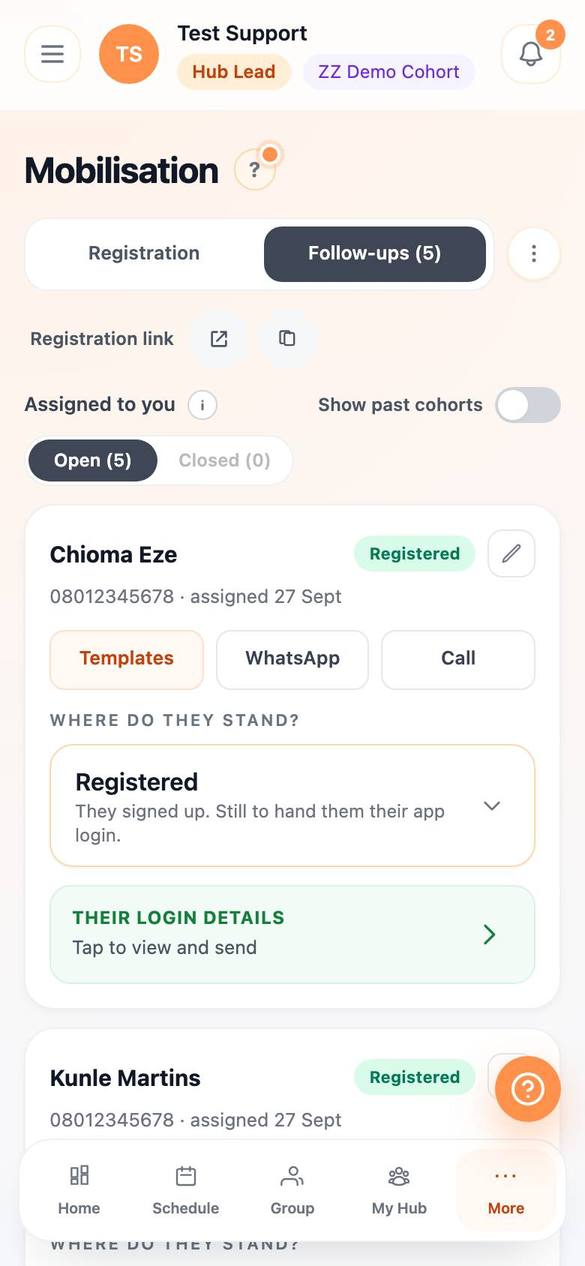
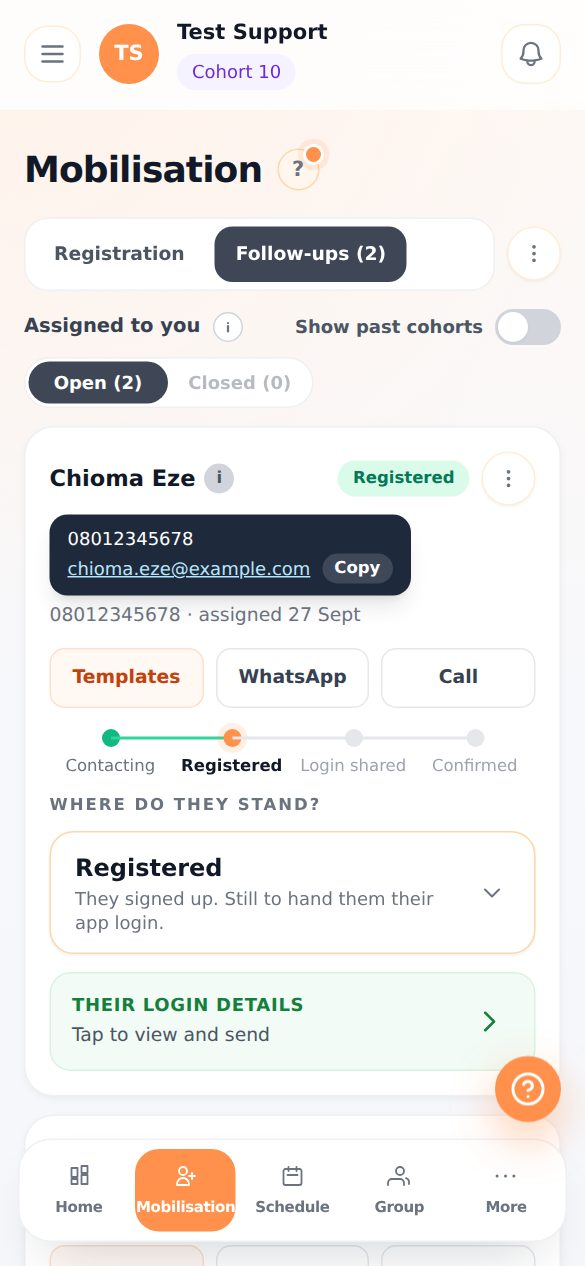
App guide: update for follow-up email, ⋮ menu, prior cohort, test contacts, search
Supports: the i pop-up and ⋮ menu on follow-up cards, how to reach someone
by email when the number doesn't work, templates and login details by
email, Edit contact moved into ⋮, and the sign-up search. Admins: contact
search, From prior cohort -> Attended, test contacts, and Mark as test on
Users; alerts, Assign now and the capacity cards now explain what they
count. The Follow-ups screenshot was retaken and a ⋮ menu one added.

Claude-Session: https://claude.ai/code/session_01FB56aDBfeXLVZc2gcA5A6g

diff --git a/frontend/public/guides/app-guide/content.js b/frontend/public/guides/app-guide/content.js
@@ -1048,7 +1048,31 @@ window.GUIDE_CONTENT = {
         "Open Follow-ups (it opens on the **Overview** tab, or switch to **Contacts**).",
         "The cards at the top show, per gender, how many are waiting versus how many spare places supports have, and which supports are at their limit."
        ],
-       "result": "Tapping a number filters the contact list below to match."
+       "result": "Tapping a number filters the contact list below to match.",
+       "tips": [
+        "The cards follow the cohort picked at the top. Test contacts are never counted."
+       ]
+      },
+      {
+       "id": "follow-ups-search",
+       "q": "How do I find a contact by name, number or email?",
+       "keywords": [
+        "search",
+        "find contact",
+        "name",
+        "number",
+        "email",
+        "all supports"
+       ],
+       "steps": [
+        "On the **Contacts** tab, type in the search box under the filters.",
+        "Matches come from every cohort, not just the one you've picked, so you don't need to change the cohort filter."
+       ],
+       "result": "The line under the box says how many match. Clear the box to go back to the full list.",
+       "tips": [
+        "Numbers work with 3 or more digits, typed as 0803… or +234 803….",
+        "Use **All Supports** to see one support's contacts, or **Unassigned** for the ones nobody has yet."
+       ]
       },
       {
        "id": "follow-ups-add-contact",
@@ -1097,7 +1121,7 @@ window.GUIDE_CONTENT = {
         "Tap the gear icon.",
         "Switch on **Alert admins when someone's stuck**."
        ],
-       "result": "While anyone is waiting unassigned, admins get one reminder every 2 hours (not one per person)."
+       "result": "While anyone in the current cohort is waiting to be assigned, admins get one reminder every 2 hours (not one per person). Test contacts, closed ones and wrong numbers are never counted."
       },
       {
        "id": "follow-ups-assign-now",
@@ -1112,7 +1136,10 @@ window.GUIDE_CONTENT = {
         "Confirm **Assign now**."
        ],
        "result": "Each waiting person goes to a same-gender support with room, and that support gets the usual new-follow-up alert. Anyone with no matching same-gender support, or no gender on file, stays waiting and is called out separately.",
-       "shot": "admin-follow-ups-assign-now-confirm.jpg"
+       "shot": "admin-follow-ups-assign-now-confirm.jpg",
+       "tips": [
+        "The number in the confirmation covers every cohort, so it can be higher than the cards, which follow the cohort you've picked. Test contacts are never counted or assigned."
+       ]
       },
       {
        "id": "follow-ups-gender-tags",
@@ -1144,7 +1171,49 @@ window.GUIDE_CONTENT = {
         "Choose from three groups: **Still open** (To contact, Waiting, Needs reminder, Replied, Call back later, Registered, Login shared, Issue with login), **Moved to next cohort**, or **Closed** (Participant confirmed access, Wrong number, Not interested, No response)."
        ],
        "result": "Only **Participant confirmed access** completes a follow-up — it's set by itself when the person signs in and chooses their password. **Login shared** keeps them open until then, and **Issue with login** alerts the admin and IT team.",
-       "shot": "admin-follow-ups-contacts.jpg"
+       "shot": "admin-follow-ups-contacts.jpg",
+       "tips": [
+        "**Attended** isn't in this list. It's set from the **From prior cohort** tag (see \"Someone from a prior cohort already attended\")."
+       ]
+      },
+      {
+       "id": "follow-ups-prior-cohort-attended",
+       "q": "Someone from a prior cohort already attended. How do I record that?",
+       "keywords": [
+        "from prior cohort",
+        "attended",
+        "prior cohort",
+        "previous cohort",
+        "already attended"
+       ],
+       "steps": [
+        "On the **Contacts** tab, find them. They have a grey **From prior cohort** tag.",
+        "Tap the tag and pick the cohort they attended."
+       ],
+       "result": "They're marked **Attended** and filed under that cohort, so they leave the current list and are never auto-assigned. You'll find them when you pick that cohort at the top.",
+       "tips": [
+        "Picked the wrong cohort? Tap **Attended [cohort]** and choose another, or **Undo**.",
+        "Only admins can do this. Supports just see the tag."
+       ]
+      },
+      {
+       "id": "follow-ups-test-contacts",
+       "q": "How do I mark a contact as a test, so it isn't counted?",
+       "keywords": [
+        "test contact",
+        "mark as test",
+        "demo",
+        "ignore",
+        "not counted"
+       ],
+       "steps": [
+        "On the **Contacts** tab, tap **⋮** on the contact.",
+        "Tap **Mark as test**."
+       ],
+       "result": "They get a **Test · ignored** tag. They stay in the list, but they're never auto-assigned and aren't counted in the cards, Overview, alerts or exports. Supports never see them.",
+       "tips": [
+        "To undo, tap **⋮** → **Unmark as test**."
+       ]
       },
       {
        "id": "follow-ups-import-export",
@@ -1173,7 +1242,10 @@ window.GUIDE_CONTENT = {
         "Send via WhatsApp."
        ],
        "result": "The message opens in WhatsApp with the template text and the current registration link filled in.",
-       "shot": "admin-follow-ups-message-bank.jpg"
+       "shot": "admin-follow-ups-message-bank.jpg",
+       "tips": [
+        "If the contact has an email, **Send email** in their **⋮** menu (or tapping their email under the **i**) sends the same template by email."
+       ]
       },
       {
        "id": "follow-ups-issues",
@@ -1314,19 +1386,24 @@ window.GUIDE_CONTENT = {
       },
       {
        "id": "users-row-menu",
-       "q": "How do I reset someone's password, change their role, or remove them?",
+       "q": "How do I reset someone's password, change their role, mark them as test, or remove them?",
        "keywords": [
         "reset password",
         "change role",
         "deactivate",
-        "delete user"
+        "delete user",
+        "mark as test",
+        "test account"
        ],
        "steps": [
         "Tap the **≡** icon on their row.",
-        "Choose **Manage** (edit their details), **Change role**, **Reset password**, **Deactivate** (blocks login, keeps their records) or **Permanent delete** (cannot be undone)."
+        "Choose **Manage** (edit their details), **Change role**, **Mark as test**, **Reset password**, **Deactivate** (blocks login, keeps their records) or **Permanent delete** (cannot be undone)."
        ],
        "result": "Reset password gives them a new temporary one to share; Deactivate is the safer option if you just need to stop someone logging in.",
-       "shot": "admin-users-row-menu.jpg"
+       "shot": "admin-users-row-menu.jpg",
+       "tips": [
+        "**Mark as test** is for demo or trial accounts. They work normally but are never picked for follow-up assignment or counted as spare places. They get a **Test** tag."
+       ]
       },
       {
        "id": "users-filters",
@@ -2137,11 +2214,14 @@ window.GUIDE_CONTENT = {
         "form",
         "check",
         "sign-ups",
-        "search"
+        "search",
+        "clear search"
        ],
        "steps": [
         "Open **Mobilisation** and scroll to **Signed up on the form**.",
-        "Type a name or number in the search box.",
+        "Tap the search box. It moves up to the top of the screen so you can see the names under it.",
+        "Type a name or number. The list narrows as you type.",
+        "Tap the **X** in the box to clear it and search again.",
         "Tap the refresh button to fetch the newest sign-ups."
        ],
        "result": "You see when each person signed up and who is following them up. Check here before asking the back office.",
@@ -2195,14 +2275,17 @@ window.GUIDE_CONTENT = {
         "follow-ups",
         "assigned to me",
         "my contacts",
-        "who to call"
+        "who to call",
+        "email",
+        "i button",
+        "three dots"
        ],
        "steps": [
         "Open **Mobilisation** and tap the **Follow-ups** tab. The number shows how many you have.",
         "**Open** shows the people you're still working on. **Closed** shows the ones you've finished.",
         "Turn on **Show past cohorts** to see people from earlier cohorts too."
        ],
-       "result": "Each person has a card with their number and buttons to message or call them.",
+       "result": "Each person has a card with their number and buttons to message or call them. Tap the **i** next to their name to see their number and email, and the **⋮** at the top right of the card for more: **Copy number**, **Send message**, **Send email** and **Edit contact**.",
        "tips": [
         "When the team gives you someone new, you also get an alert on the bell."
        ],
@@ -2218,7 +2301,9 @@ window.GUIDE_CONTENT = {
         "whatsapp",
         "first message",
         "reminder",
-        "copy text"
+        "copy text",
+        "email",
+        "send email"
        ],
        "steps": [
         "On the person's card, tap **Templates**.",
@@ -2228,9 +2313,36 @@ window.GUIDE_CONTENT = {
        ],
        "result": "WhatsApp opens with the message ready to send, and the app notes that you've contacted them.",
        "tips": [
-        "You can also tap **WhatsApp** or **Call** on the card to reach them without a template."
+        "You can also tap **WhatsApp** or **Call** on the card to reach them without a template.",
+        "No WhatsApp? Tap **⋮** on their card, then **Send email** (or tap their email under the **i**). Pick a template the same way and tap **Open email**. Your email app opens with the message ready to send."
        ],
        "shot": "support-follow-up-templates.jpg"
+      },
+      {
+       "id": "s-email-contact",
+       "popular": true,
+       "q": "Their number doesn't work. How do I reach them by email?",
+       "keywords": [
+        "email",
+        "wrong number",
+        "not reachable",
+        "not on whatsapp",
+        "can't reach",
+        "copy email",
+        "send email"
+       ],
+       "steps": [
+        "On their card, tap the **i** next to their name. Their number and email show.",
+        "Tap the email to write to them, or tap **Copy** to paste it somewhere else.",
+        "Or tap **⋮** at the top right of the card, then **Send email**."
+       ],
+       "result": "You pick a ready-made message, check the preview and tap **Open email**. Your email app opens with it ready to send.",
+       "tips": [
+        "If they've registered, use **Send by email** in **Their login details** instead, so they get their login too.",
+        "If there's no email, they didn't give one on the form. Let the admin know.",
+        "Don't see the **i**? Close the app completely and open it again to get the latest version."
+       ],
+       "shot": "support-follow-ups.jpg"
       },
       {
        "id": "s-update-stage",
@@ -2270,18 +2382,21 @@ window.GUIDE_CONTENT = {
         "send login",
         "confirmed access",
         "issue with login",
-        "can't log in"
+        "can't log in",
+        "email",
+        "send by email"
        ],
        "steps": [
         "Open their card. Once they're **Registered**, a **Their login details** box appears.",
-        "Tap it to see the details and send them.",
+        "Tap it to see the details. Tap **Send in WhatsApp**, **Send by email** or **Copy message**.",
         "Once you've sent them, set **Where do they stand?** to **Login shared**.",
         "If they can't get in, choose **Issue with login**. A box asks **What's the problem?** Describe it (for example, the code isn't working or they changed phone) and tap **Submit**. The admins and your hub's IT Support are told, with what you wrote, and the login details box stays on the card so you can send a new code."
        ],
        "result": "When they sign in and set their password, the card closes by itself as **Participant confirmed access** and you get a notification. Your job for this person is done.",
        "shot": "support-follow-ups.jpg",
        "tips": [
-        "When IT Support mark the problem sorted, you get a notification. If the person has signed in by then, the card closes as **Participant confirmed access**. If not, it goes back to **Login shared**."
+        "When IT Support mark the problem sorted, you get a notification. If the person has signed in by then, the card closes as **Participant confirmed access**. If not, it goes back to **Login shared**.",
+        "Couldn't reach them by phone? **Send by email** opens your email app with a message that says you couldn't get through, introduces you, and gives their login. It only shows if they gave an email."
        ]
       },
       {
@@ -2291,13 +2406,15 @@ window.GUIDE_CONTENT = {
         "edit contact",
         "wrong name",
         "change number",
-        "pencil"
+        "three dots",
+        "⋮"
        ],
        "steps": [
-        "On their card, tap the pencil at the top right.",
-        "Correct the details.",
-        "Save."
-       ]
+        "On their card, tap **⋮** at the top right.",
+        "Tap **Edit contact**.",
+        "Correct the details and tap **Save**."
+       ],
+       "shot": "support-follow-up-menu.jpg"
       }
      ]
     },

diff --git a/.sessions/2026-09-29_test-accounts-and-contacts.md b/.sessions/2026-09-29_test-accounts-and-contacts.md
@@ -41,3 +41,4 @@ Came from: the Assign now dialog said 5 waiting while the card said 4. The card 
   - fix/aikido-security-update-packages-38645621-rvhq 99f55a53523e2fc4da8e0fe0c041700072e9ef46
   - fix/aikido-security-update-packages-38644435-t1ai ba909308bab6b9360d51fee65ac38c2256c2bf98
   Kept, needs the user's decision: fix/duplicate-user-login (PR #4 closed without merging), codex/fof-ops-feature-polish and claude/fof-role-walkthrough-ewltt9 (no PR, histories diverge from main), and the dependabot backend branch (PR #7 still open).
+- App guide (`frontend/public/guides/app-guide/content.js`) updated for today's changes. Support: the Follow-ups card (i pop-up, ⋮ menu), a new question "Their number doesn't work. How do I reach them by email?", templates by email, Send by email on login details, "fix name or number" now goes through ⋮ → Edit contact, and the sign-up search (moves up, X to clear). Admin: new questions on search, prior cohort → Attended and test contacts; updated capacity cards, alerts, Assign now, Message Bank, and Users (Mark as test). Screenshots: `support-follow-ups.jpg` was retaken from the real updated page (sample names) and `support-follow-up-menu.jpg` was added. Other guide screenshots weren't retaken.
